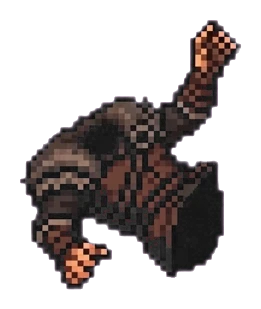
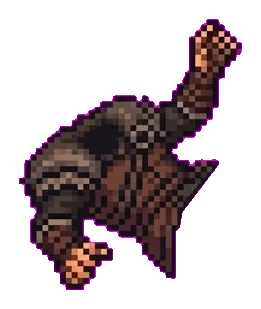
Defeat: the fall pose drops slowly onto the floor; lv0 armor fall art updated
Claude-Session: https://claude.ai/code/session_01W4v7cyzS6Fr8aMVaGgywWE

Changed region(s): [[0.0613, 0.0583, 0.9502, 0.9612], [0.5517, 0.6699, 0.5824, 0.7282], [0.4904, 0.699, 0.5211, 0.7282]]

diff --git a/js/ui.js b/js/ui.js
@@ -730,8 +730,9 @@ const COMBAT_PLAYER_CRIT_MS = 520;    // whole critical: wind-up + critical02 (4
 const COMBAT_PLAYER_WINDUP_PX = -12;  // wind-up draws back this far
 const COMBAT_PLAYER_LUNGE_PX = 40;    // the strike lunges forward this far and back
 let combatPlayerAttack = { at: 0, crit: false };
-// The hero dies at the end of a lost battle: a slow-motion fall (PLAYER_FALL_MS), then the dead pose lies on the ground until the result.
+// The hero dies at the end of a lost battle: the fall pose drops slowly onto the floor (PLAYER_FALL_MS), then rests there until the result.
 const PLAYER_FALL_MS = 2200;
+const PLAYER_FALL_LIFT_PX = 70; // the fall starts this far above the floor (screen px)
 let combatPlayerDeadAt = 0;
 let combatPlayerFalling = false;
 function playPlayerFallAnim() {
@@ -741,25 +742,17 @@ function playPlayerFallAnim() {
     el.classList.remove('player-hurt'); // no hit flash on the death: the fall is the only effect
     // Stop a running attack lunge (WAAPI only; the CSS idle/hurt animations stay)
     el.getAnimations().forEach(a => { if (!(a instanceof CSSAnimation)) a.cancel(); });
-    // The standing hero tips backwards from its feet. The fall always plays: the lying frame is swapped in at the end if it has loaded.
-    const stand = combatPose().IDLE;
-    if (stand) {
-        applyPlayerFrame(el, stand);
-        const S = COMBAT_PLAYER_SCALE;
-        el.style.transformOrigin = ((stand.fx !== undefined ? stand.fx : stand.w / 2) * S) + 'px ' + ((stand.fy !== undefined ? stand.fy : stand.h) * S) + 'px';
-    }
+    // The falling figure is the fall pose (tumbling in the air). It starts raised and drops slowly onto the floor.
+    // Without the fall art yet, the standing hero drops in its place.
+    const fallen = combatDeadFrame();
+    applyPlayerFrame(el, fallen || combatPose().IDLE);
     combatPlayerFalling = true;
-    const fall = el.animate([{ transform: 'rotate(0deg)' }, { transform: 'rotate(-90deg)' }],
-        { duration: PLAYER_FALL_MS, easing: 'cubic-bezier(0.3, 0, 0.6, 1)', fill: 'forwards' }); // slow but starts tipping at once
-    fall.onfinish = () => {
-        const dead = combatDeadFrame();
-        if (dead) {
-            fall.cancel();
-            el.style.transform = '';
-            el.style.transformOrigin = '';
-            applyPlayerFrame(el, dead); // lies on the ground
-        } // else the sprite stays tipped over (fill forwards) until the dead frame loads
+    const drop = el.animate([{ transform: `translateY(-${PLAYER_FALL_LIFT_PX}px)` }, { transform: 'translateY(0px)' }],
+        { duration: PLAYER_FALL_MS, easing: 'cubic-bezier(0.5, 0, 0.9, 0.6)', fill: 'forwards' }); // slow motion, speeds up as it lands
+    drop.onfinish = () => {
+        drop.cancel();
         combatPlayerFalling = false;
+        if (combatDeadFrame()) applyPlayerFrame(el, combatDeadFrame()); // rests on the floor
     };
 }
 // A frame placed so its torso is where the reference frame's torso is (the feet stay on the ground)

diff --git a/index.html b/index.html
@@ -1370,7 +1370,7 @@
     <script src="js/hero-body.js?v=20261112c"></script>
     <script src="js/combat.js?v=20261112c"></script>
     <script src="js/crit-fx.js?v=20261110e"></script>
-    <script src="js/ui.js?v=20261112ae"></script>
+    <script src="js/ui.js?v=20261112af"></script>
     <script src="js/guide-intro.js?v=20261111a"></script>
     <script src="js/beginner-quest.js?v=20261107l"></script>
     <script src="js/friends.js?v=20261109k"></script>
